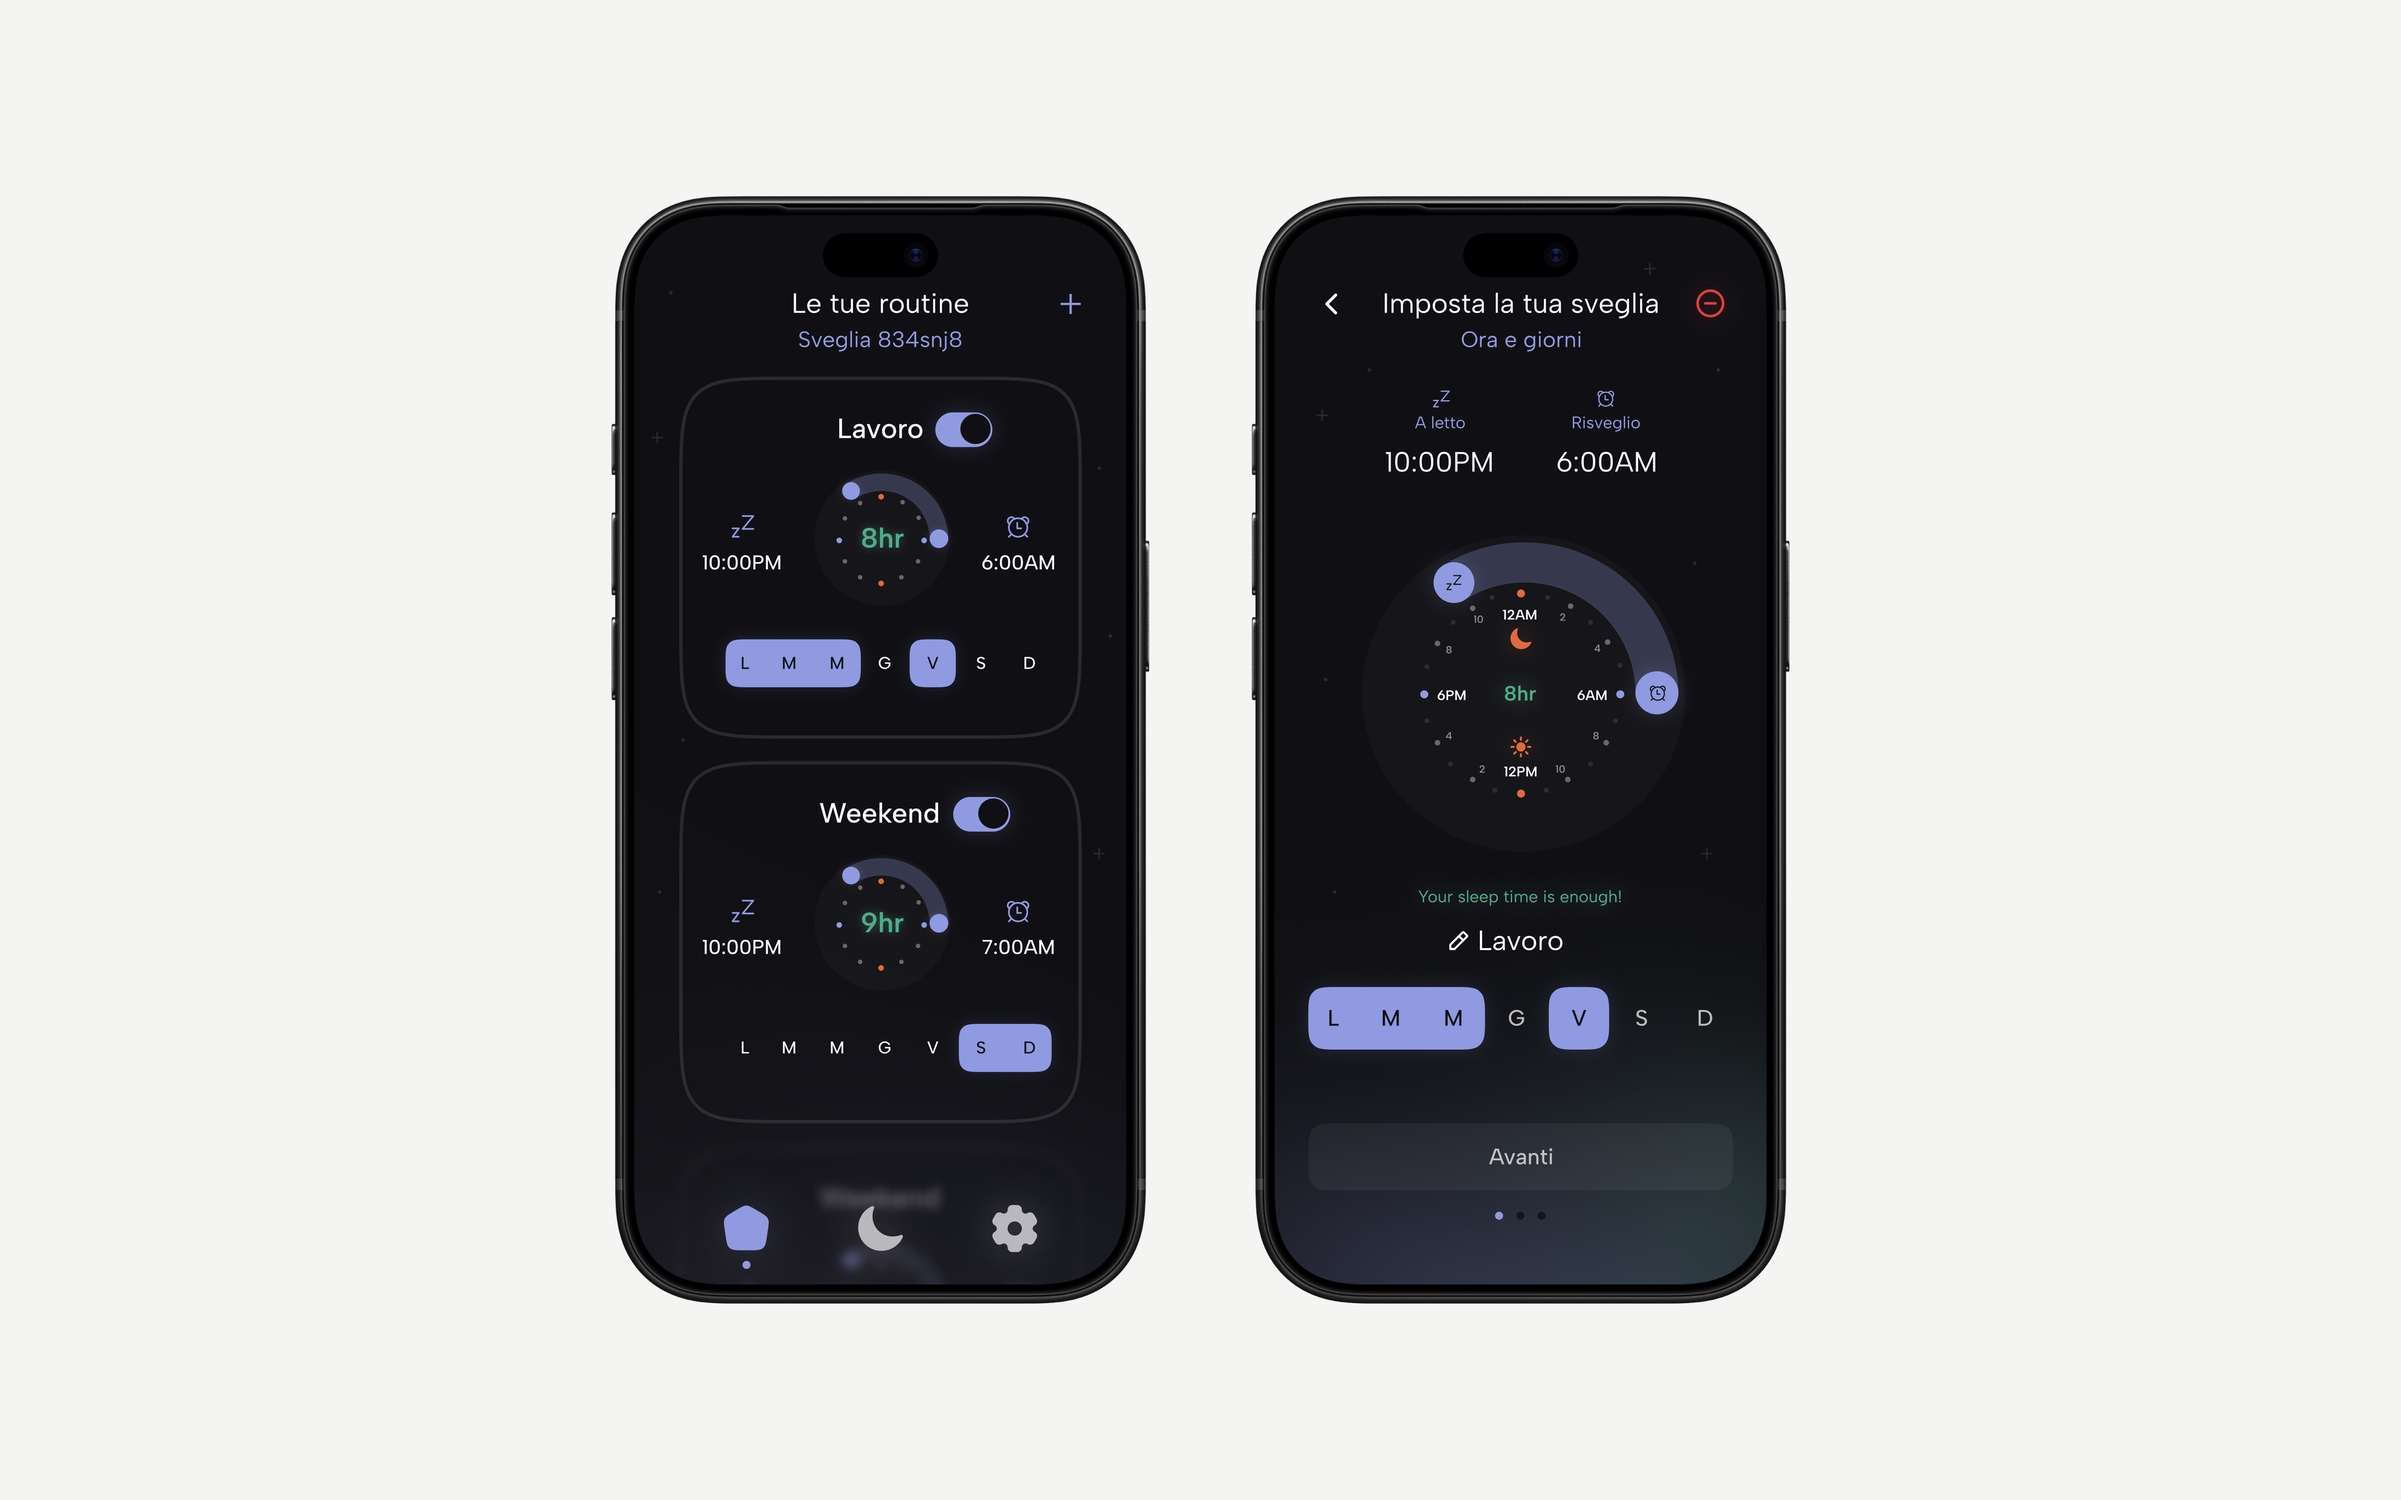
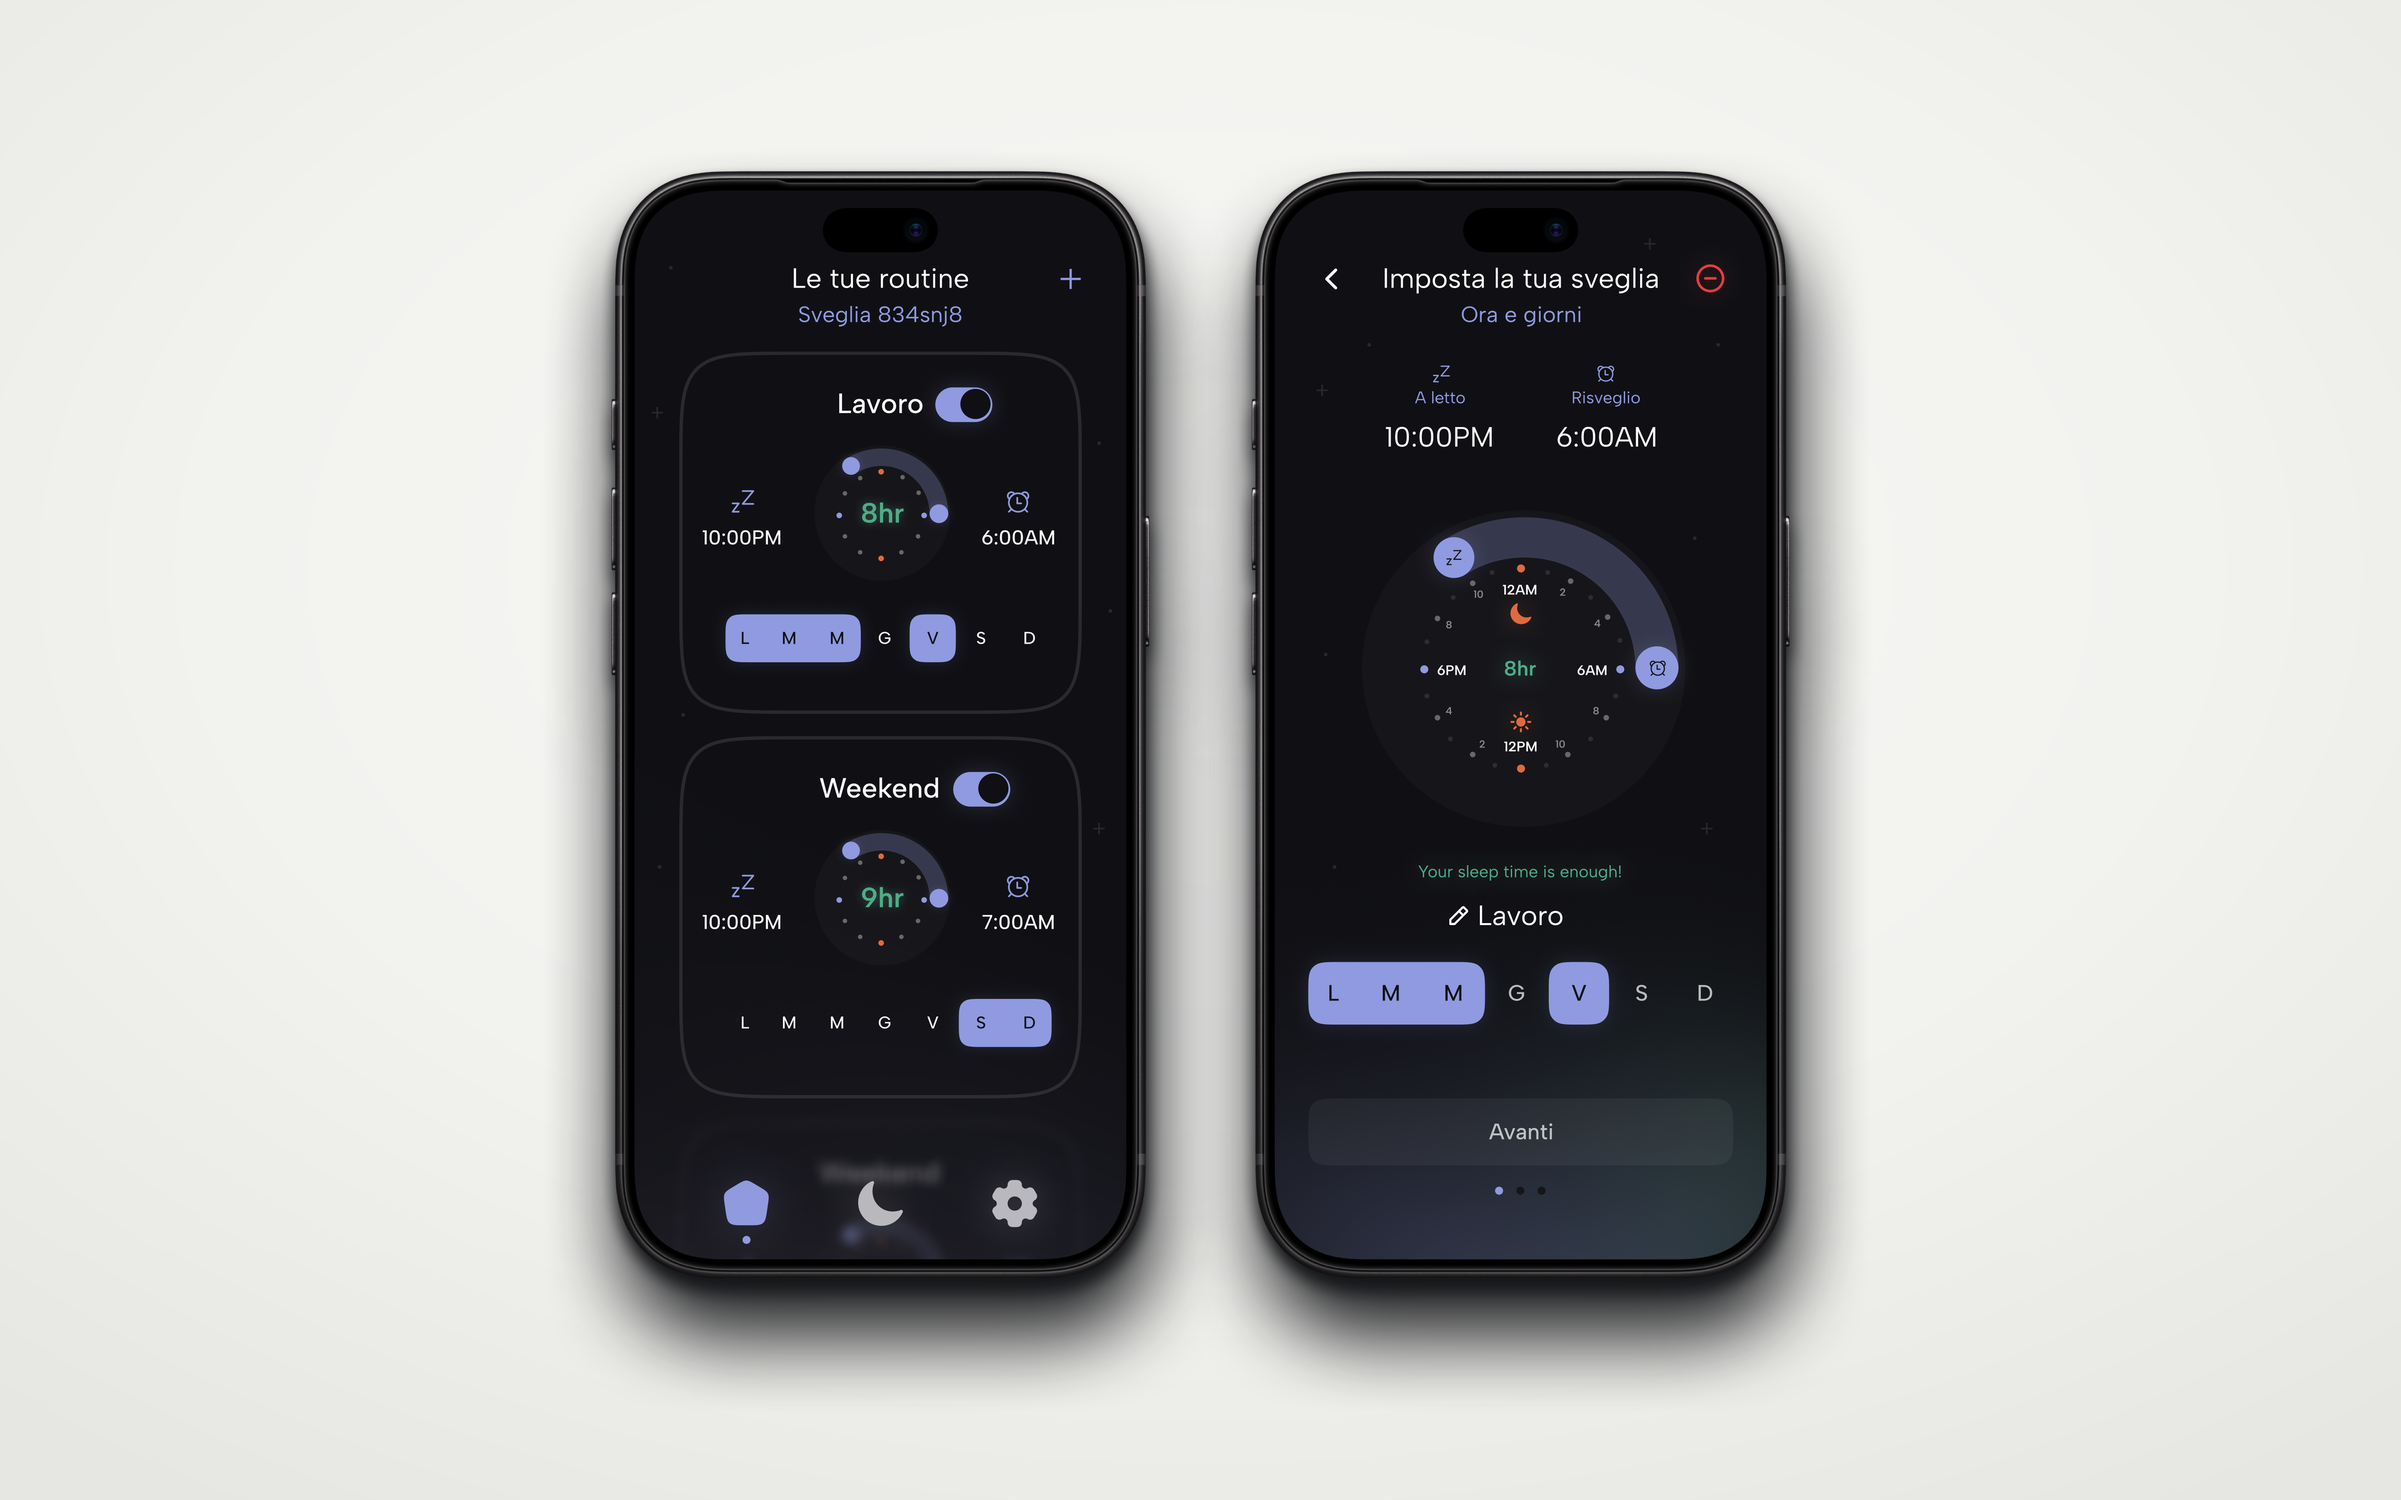
AuraWake cover: soft top light and phone shadows for a little depth

diff --git a/HANDOFF.md b/HANDOFF.md
@@ -258,7 +258,7 @@ Removed on 2026-10-03 ("togli il cellulare interattivo"). The hand-photo idea is
 | 02 Rehab | placeholder | invented facts (Digital health service, 2026, Product Designer, team lead…) |
 | 03 Smart Home Ecosystem | placeholder | invented facts |
 | 04 Realiti | placeholder | invented facts, dark tone |
-| 05 AuraWake | placeholder text, **real cover** | cover = Home + AlarmSet1 screens side by side on #f4f4f2 (= tone), 3840×2400, composed with sharp from the 3x PNGs (1350×2760) in `Media/05-AuraWake/OfficialMedia/Interfaces`. |
+| 05 AuraWake | placeholder text, **real cover** | cover = Home + AlarmSet1 side by side, 3840×2400, from the 3x PNGs in `Media/05-AuraWake/OfficialMedia/Interfaces`. "Cinematic" pass (2026-10-03): radial light on the ground (#f7f7f5 centre → #e6e6e2 edges, light from above-centre) and two shadows per phone from its alpha (ambient σ70 / 30% / +90px, contact σ14 / 28% / +18px, #16171a). Tone #ebebe7 = the image corners, so the hover zoom-out frame continues the vignette. Script: old scratchpad `render/aura-cine.cjs`. Use the same recipe for future device covers. |
 
 ### JustCook facts (verified with the owner)
 - University project, Sept 2024 – May 2025, across three courses: semiotics of visual representation, sociology of
